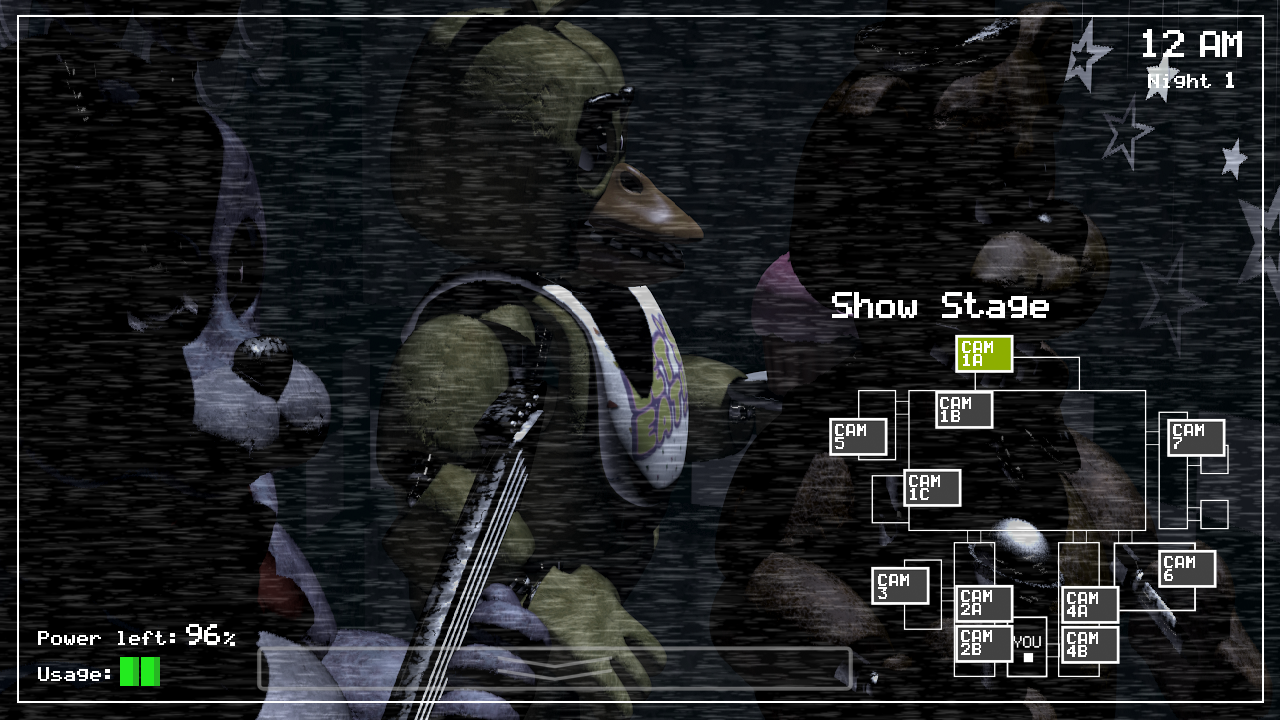
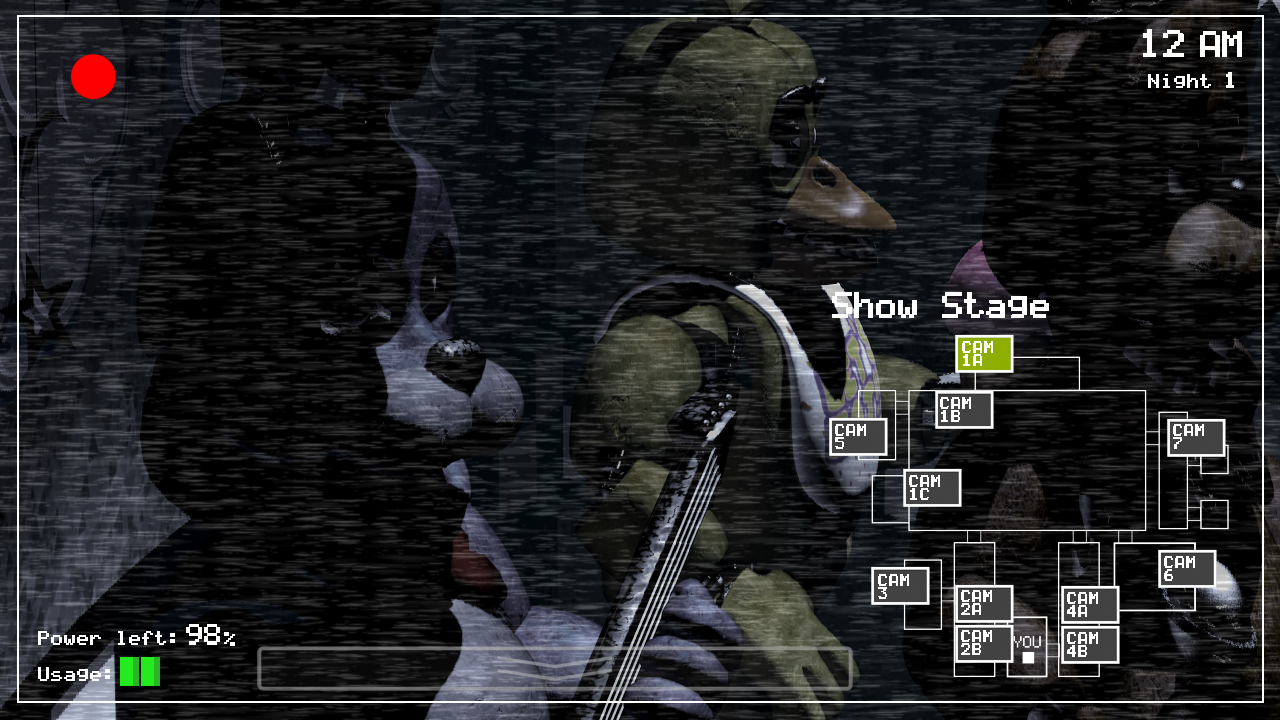
fixed all sizes for the Office elements

diff --git a/Assets/Scripts/UI/LayoutManager.cs b/Assets/Scripts/UI/LayoutManager.cs
@@ -63,8 +63,8 @@ public class LayoutManager : MonoBehaviour
         screenSubtitles[0].SetActive(true);
         screenSubtitles[1].SetActive(false);
 
-        minimap.transform.localScale = new Vector3(1.5f, 1.5f, 1f);
-        minimap.transform.localPosition = new Vector3(611.3f, -230.3f, 0);
+        minimap.transform.localScale = new Vector3(1f, 1f, 1f);
+        minimap.transform.localPosition = new Vector3(407.7f, -152.4f, 0);
     }
 
     private void TVGamepad()
@@ -81,7 +81,7 @@ public class LayoutManager : MonoBehaviour
         screenSubtitles[0].SetActive(false);
         screenSubtitles[1].SetActive(true);
 
-        minimap.transform.localScale = new Vector3(2f, 2f, 1f);
+        minimap.transform.localScale = new Vector3(1.5f, 1.5f, 1f);
         minimap.transform.localPosition = Vector3.zero;
 
         subtitles[0].SetActive(true);
@@ -103,8 +103,8 @@ public class LayoutManager : MonoBehaviour
         screenSubtitles[0].SetActive(false);
         screenSubtitles[1].SetActive(true);
 
-        minimap.transform.localScale = new Vector3(1.5f, 1.5f, 1f);
-        minimap.transform.localPosition = new Vector3(611.3f, -230.3f, 0);
+        minimap.transform.localScale = new Vector3(1f, 1f, 1f);
+        minimap.transform.localPosition = new Vector3(407.7f, -152.4f, 0);
     }
 
     private void ChangeSubtitlePosition(bool cameraStatus)
